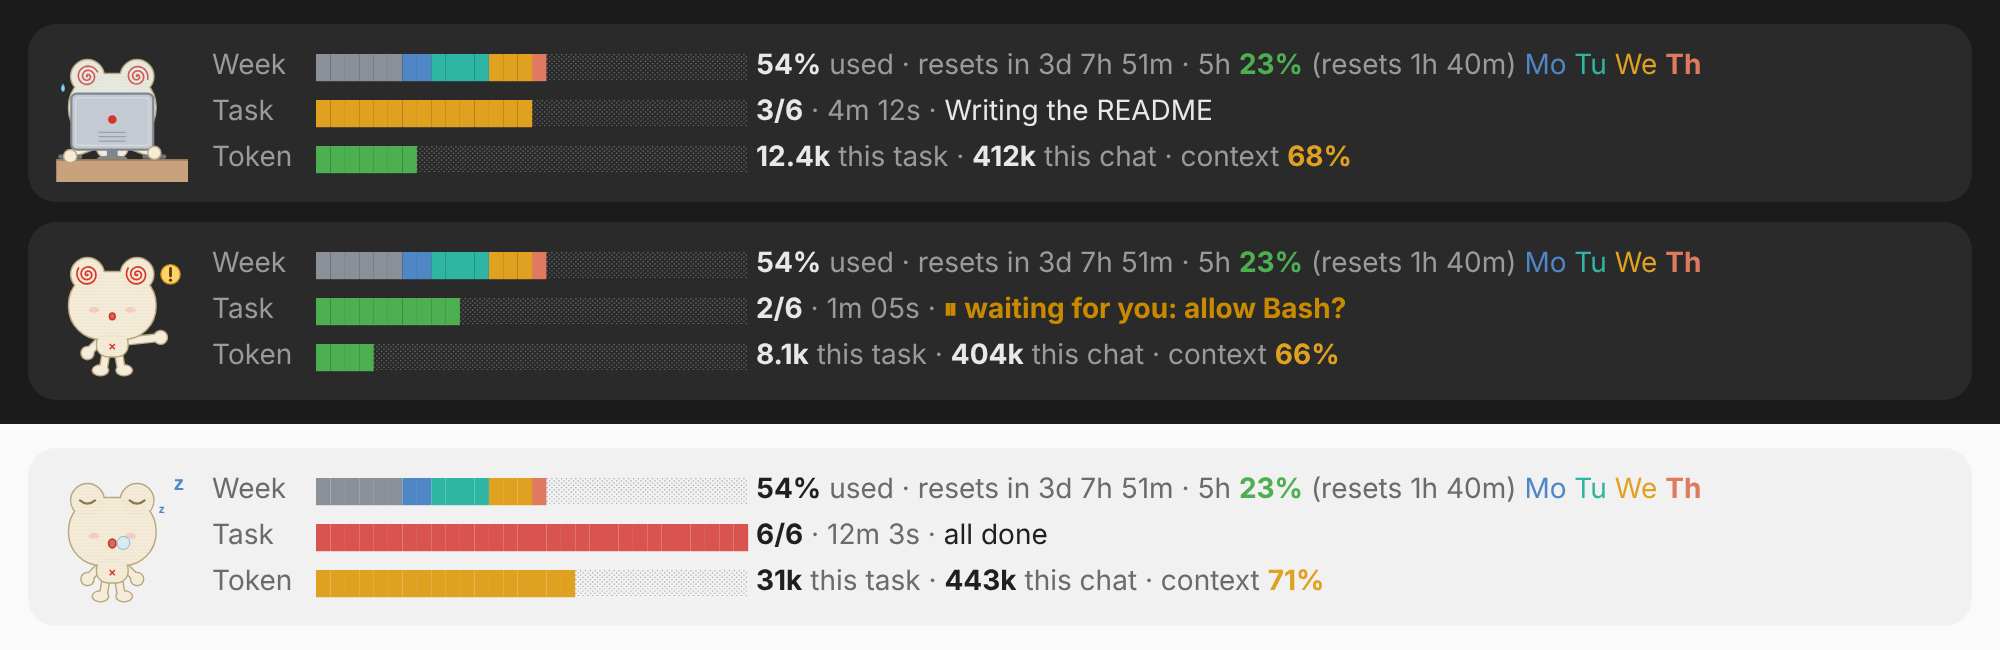
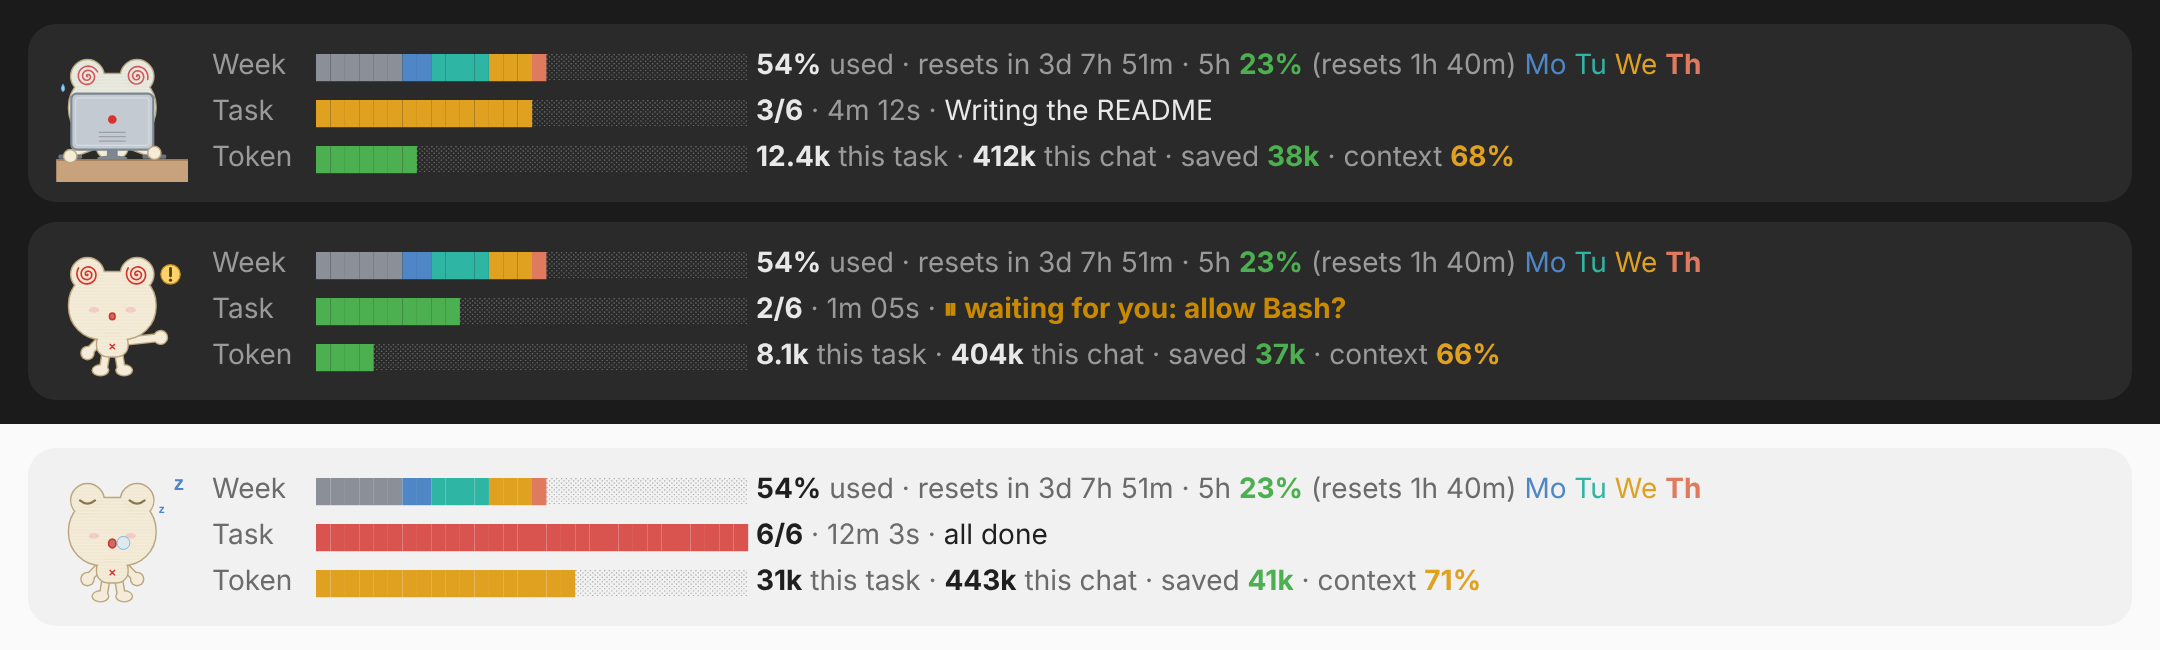
README: lead with the token saver; add before/after picture and update steps
The intro names both jobs, the Token saver section moves up with a
before/after of a real 900-test run through the saver's filter, the
band pictures show 'saved', and a new Updating section explains how to
get the latest version.

Claude-Session: https://claude.ai/code/session_01JtoWSS4hHwE8T4PegbGPHs

diff --git a/README.md b/README.md
@@ -2,7 +2,12 @@
 
 A Claude Code plugin that displays a tiny, live status band that sits just above the prompt bar. At a glance it shows how much of your usage limits are gone, how far along the current task is, and how many tokens it has used. It also tells you when Claude is waiting on you. Kibbles, a little frog, keeps you company while you work.
 
-Under the hood, its **token saver** cuts what Claude has to read: it condenses noisy tool output, skips re-reading files that haven't changed, and keeps replies short. The band shows how much it saved.
+It does two jobs:
+
+- **A heads-up display** of your weekly and 5-hour limits, task progress, tokens and context, with helpers shown in colour.
+- **A token saver** that cuts what Claude has to read, so your limits last longer. It condenses noisy tool output, skips re-reading files that haven't changed and keeps replies short. A test run that would cost Claude ~15,000 tokens to read costs ~300. The band shows how much it has saved: `saved 38k`.
+
+Both run on your computer and never call the model.
 
 ![The Kibbles band: working, waiting for you, and idle](docs/band.png)
 
@@ -20,6 +25,46 @@ The bars:
 
 - **Week:** split into days, each day in its own colour, matching the coloured day names in the text. You can see which days used the most. Grey is usage from before Kibbles started counting this week.
 - **Task and Token:** turn from **green** to **amber** to **red** as they fill. The 5-hour limit and the context window use the same colours in their text.
+
+## Token saver
+
+![A 900-test run: what it printed vs what Claude reads after the token saver](docs/saver.png)
+
+The more Claude reads, the faster you use up your limits. The token saver works by itself, runs locally and never calls the model. It works in four ways.
+
+**1. Noisy output is condensed.** Before Claude sees the output of a shell command or an MCP tool, the saver:
+
+- strips colour codes and progress bars;
+- collapses runs of repeated log lines (`[998 similar lines collapsed, not shown]`);
+- keeps the start and end of very long output (`[840 lines trimmed]`);
+- shortens huge JSON values and lists.
+
+Lines containing **error, fail, warn, traceback, exception, panic, fatal or assert are never removed**. Number-only data, such as `seq` output or a numeric CSV, is never collapsed. Claude is told that the hidden lines were not shown and must not be guessed, and that adding the comment `# nofilter` to a command gets the full output.
+
+**2. Unchanged files aren't read twice.** If Claude reads a file again and nothing has changed, it gets a one-line note to use what it already has.
+
+- If it asks again straight away, the read goes through.
+- If the file has changed, Claude gets just the diff, provided the diff is small. Edits still work afterwards.
+- The main chat and each helper are tracked separately.
+- After an edit or a compaction, the next read is a full one.
+
+**3. Terse replies.** A short style instruction asks for no preamble, no restating the question, no closing recap, and code changes shown as diffs. It never shortens code, commands or error messages. It's set once at the start of a chat, in the system prompt, so it doesn't break Claude's prompt cache. If you switch it in the settings mid-chat, Claude gets one note instead.
+
+**4. Savings in the band.** The Token row shows how many tokens the saver kept out of the chat: `· saved 38k`. There's nothing to run: it works by itself, and you can tune or turn it off in the settings below.
+
+**Measured savings** (estimated at ~4 characters a token; no error lines lost in any case):
+
+| Output | Before | After | Saved |
+|---|---:|---:|---:|
+| A pytest run of 900 tests with 1 failure | 15,373 | 323 | 98% |
+| 300 log lines with 1 error | 4,384 | 106 | 98% |
+| pip install with progress bars | 965 | 65 | 93% |
+| A 120-item GitHub API response | 56,102 | 4,180 | 93% |
+| A coloured cargo build | 428 | 50 | 88% |
+| A 16-step coding session (output + re-reads) | 92,201 | 11,122 | 88% |
+| Output that was already short | – | – | 0% |
+
+How much you save depends on how noisy your tools are: test runners, builds, logs, API JSON and re-reads save the most.
 
 ## Helpers (subagents)
 
@@ -57,44 +102,6 @@ Kibbles' mood follows your weekly usage:
 | 50–80% | 2 sweat drops, faster spin | straight face |
 | Over 80% | 3 sweat drops, eyes spinning backwards | worried, with a sweat drop |
 
-## Token saver
-
-It works by itself, runs locally and never calls the model. It works in four ways.
-
-**1. Noisy output is condensed.** Before Claude sees the output of a shell command or an MCP tool, the saver:
-
-- strips colour codes and progress bars;
-- collapses runs of repeated log lines (`[998 similar lines collapsed, not shown]`);
-- keeps the start and end of very long output (`[840 lines trimmed]`);
-- shortens huge JSON values and lists.
-
-Lines containing **error, fail, warn, traceback, exception, panic, fatal or assert are never removed**. Number-only data, such as `seq` output or a numeric CSV, is never collapsed. Claude is told that the hidden lines were not shown and must not be guessed, and that adding the comment `# nofilter` to a command gets the full output.
-
-**2. Unchanged files aren't read twice.** If Claude reads a file again and nothing has changed, it gets a one-line note to use what it already has.
-
-- If it asks again straight away, the read goes through.
-- If the file has changed, Claude gets just the diff, provided the diff is small. Edits still work afterwards.
-- The main chat and each helper are tracked separately.
-- After an edit or a compaction, the next read is a full one.
-
-**3. Terse replies.** A short style instruction asks for no preamble, no restating the question, no closing recap, and code changes shown as diffs. It never shortens code, commands or error messages. It's set once at the start of a chat, in the system prompt, so it doesn't break Claude's prompt cache. If you switch it in the settings mid-chat, Claude gets one note instead.
-
-**4. Savings in the band.** The Token row shows how many tokens the saver kept out of the chat: `· saved 38k`. There's nothing to run: it works by itself, and you can tune or turn it off in the settings below.
-
-**Measured savings** (estimated at ~4 characters a token; no error lines lost in any case):
-
-| Output | Before | After | Saved |
-|---|---:|---:|---:|
-| A pytest run of 900 tests with 1 failure | 15,373 | 314 | 98% |
-| 300 log lines with 1 error | 4,384 | 106 | 98% |
-| pip install with progress bars | 965 | 65 | 93% |
-| A 120-item GitHub API response | 56,102 | 4,180 | 93% |
-| A coloured cargo build | 428 | 50 | 88% |
-| A 16-step coding session (output + re-reads) | 92,201 | 11,122 | 88% |
-| Output that was already short | – | – | 0% |
-
-How much you save depends on how noisy your tools are: test runners, builds, logs, API JSON and re-reads save the most.
-
 ## Install
 
 You need [Claude Code](https://claude.com/claude-code). In a Claude Code session, type:
@@ -112,6 +119,20 @@ claude plugin install kibbles --marketplace Qibbles/Kibbles
 ```
 
 In the Claude desktop app, where `/plugin` doesn't run: click **+** next to the prompt box, then **Plugins**, **Add marketplace**, enter `Qibbles/Kibbles`, then **Add plugin**.
+
+## Updating
+
+Plugins don't update by themselves. To get the latest version:
+
+```bash
+claude plugin marketplace update kibbles
+```
+
+```bash
+claude plugin update kibbles
+```
+
+Then start a new Claude Code session. To see which version you have, run `claude plugin list`.
 
 ## Turn it off or remove it
 
